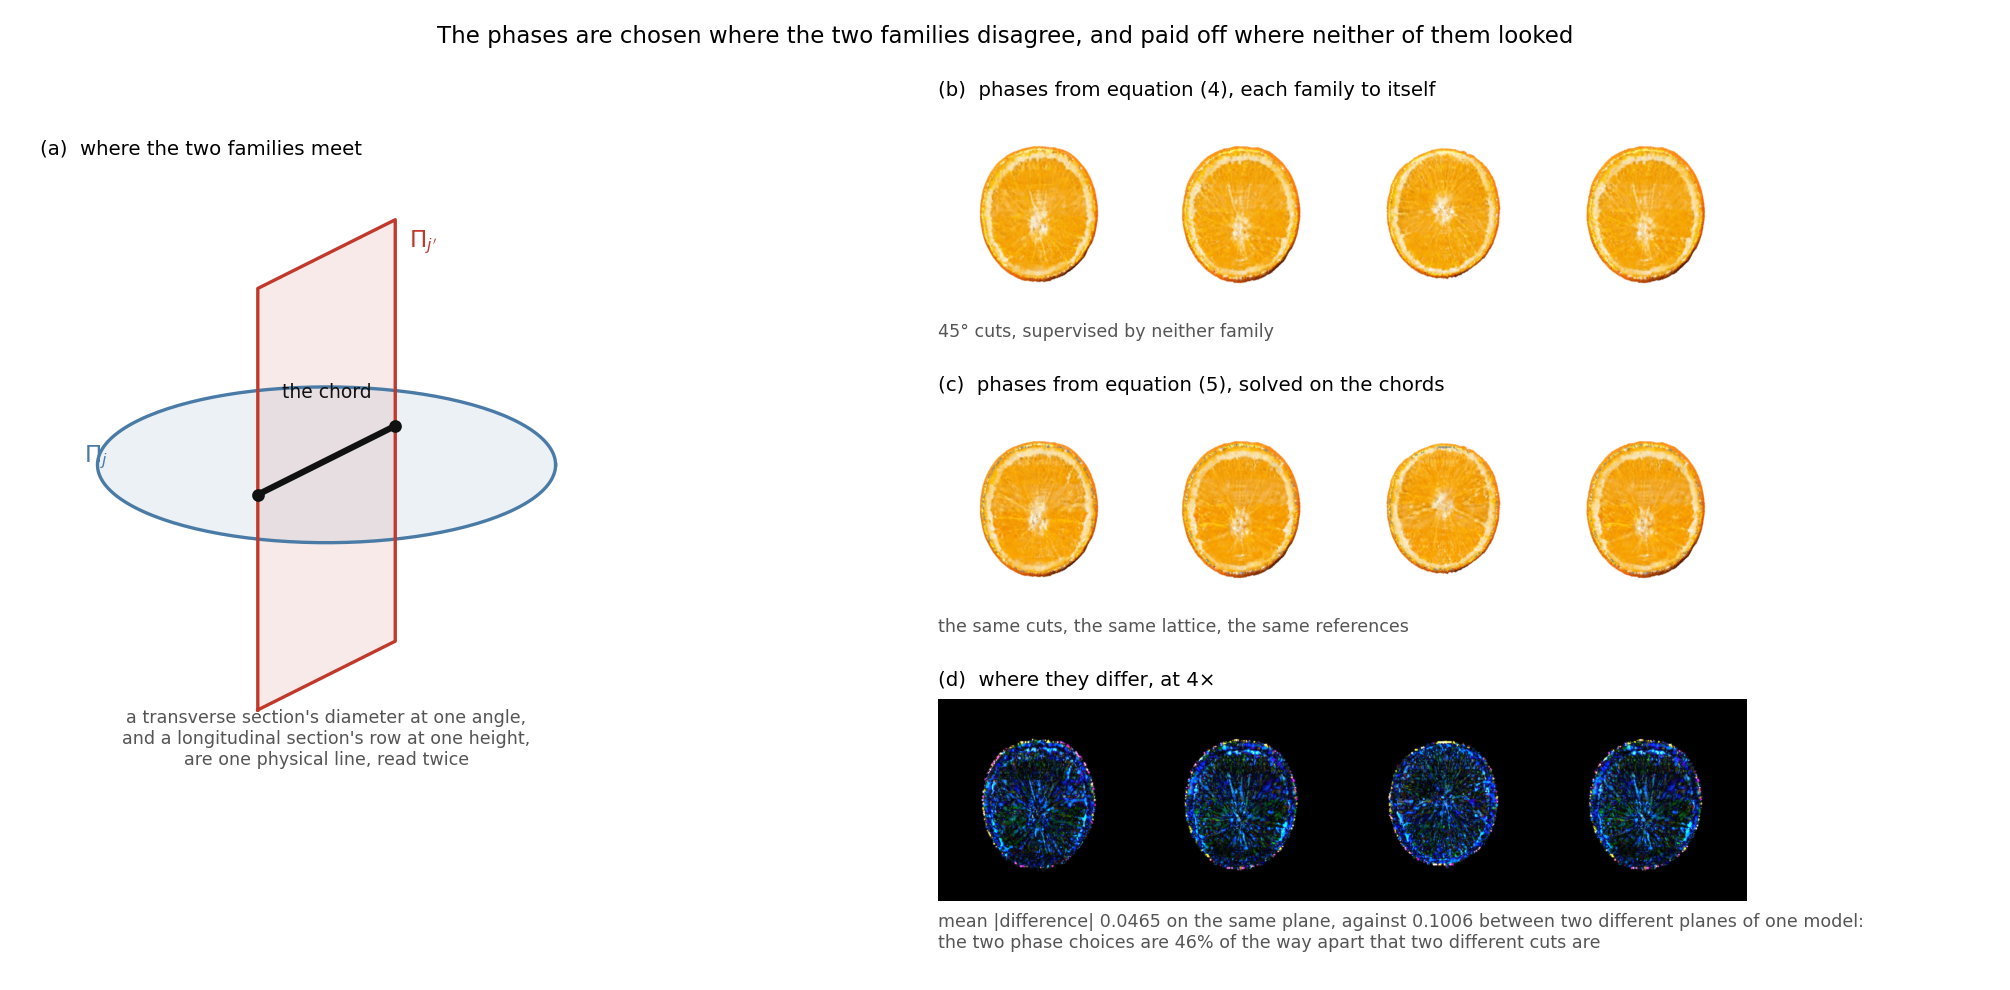
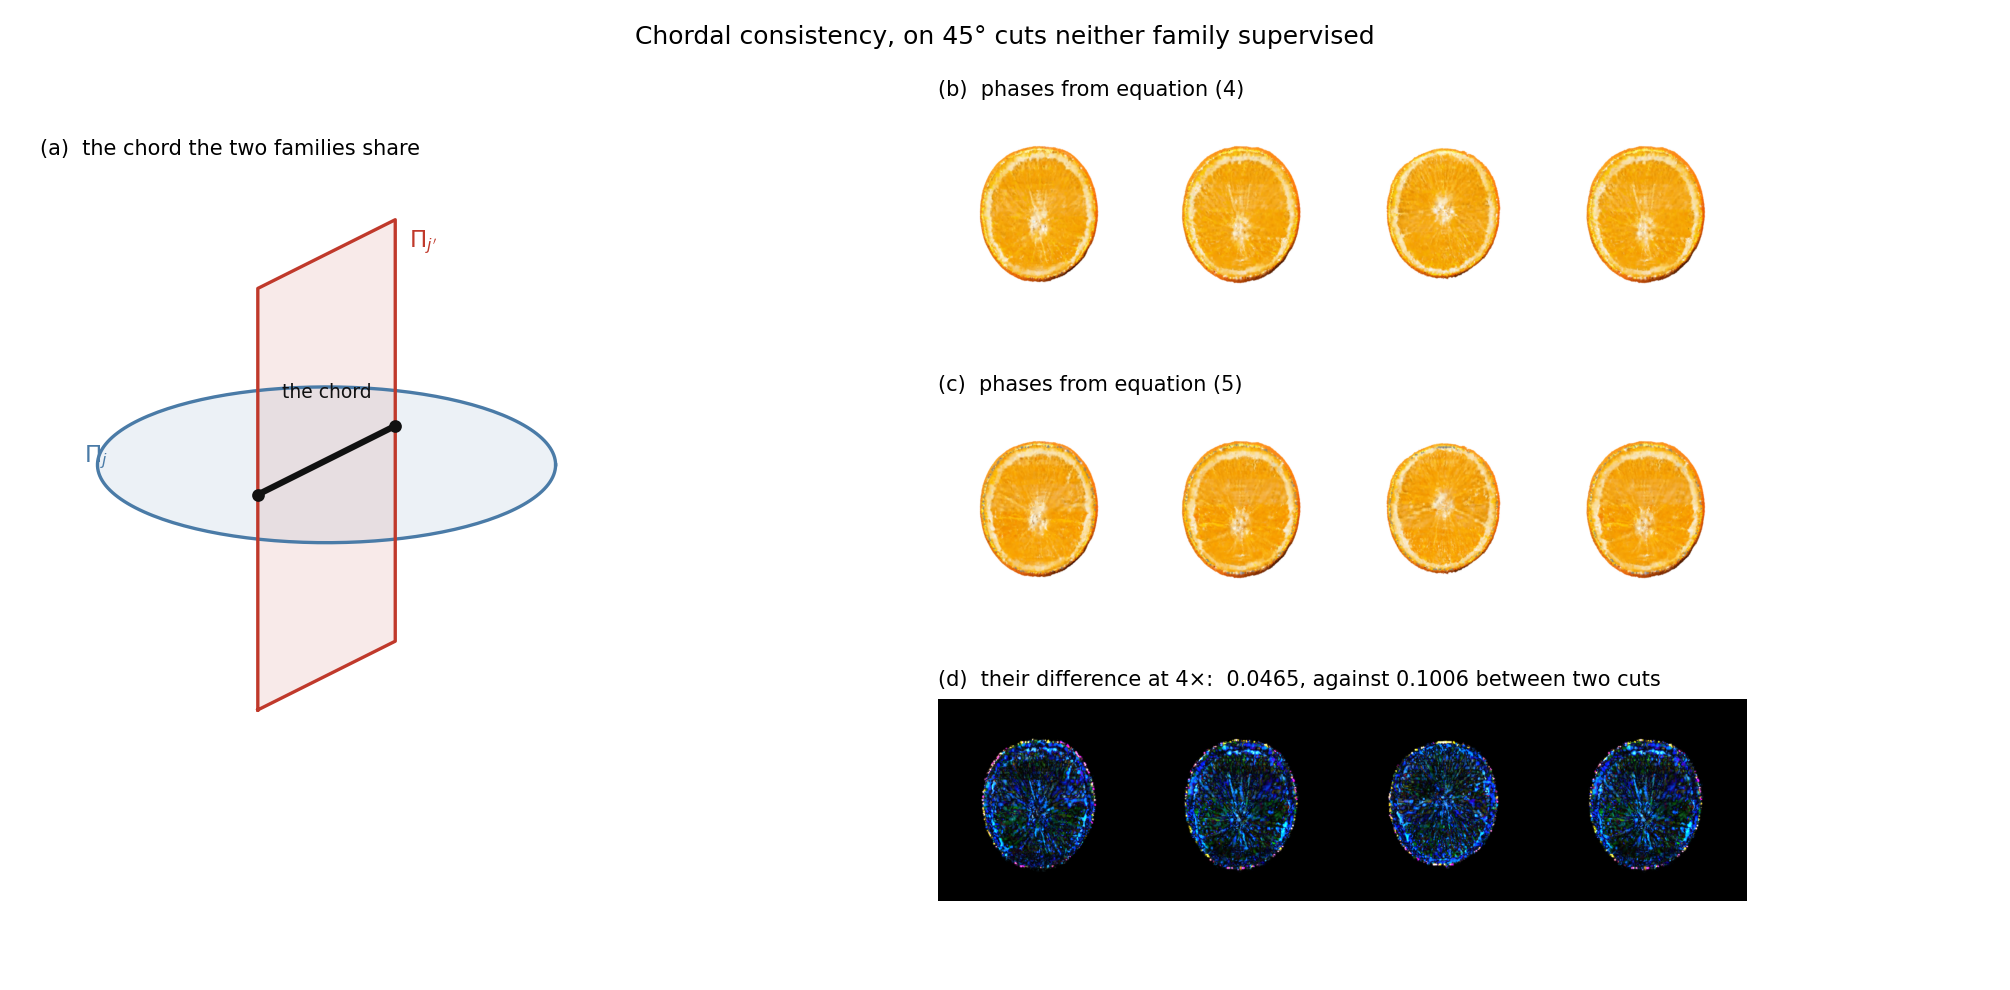
The figures stop explaining themselves inside the frame
Every panel carried a grey sub-line under it and the overview carried a paragraph in its fourth
column. A figure that has to explain itself inside the frame is competing with its own caption,
and the captions were cut to one line each yesterday precisely so the prose could carry the
argument.

Panels are titles now. What survives inside a frame is content rather than commentary: the chord
figure keeps its Pi_j and Pi_j' labels and the word 'chord', because those name the geometry
being drawn, and the difference panel keeps its two numbers, because they are the measurement
that panel exists to report.

diff --git a/code/figures/chordfig.py b/code/figures/chordfig.py
@@ -51,11 +51,6 @@ def chord_panel(ax):
     ax.text(0.0, 0.44, "the chord", fontsize=9, ha="center", color="#111")
     ax.text(-1.06, 0.16, r"$\Pi_j$", fontsize=11, color="#4a7ba7")
     ax.text(0.36, 1.10, r"$\Pi_{j'}$", fontsize=11, color="#c0392b")
-    ax.text(0.0, -1.16,
-            "a transverse section's diameter at one angle,\n"
-            "and a longitudinal section's row at one height,\n"
-            "are one physical line, read twice",
-            fontsize=8.4, ha="center", color="#555")
     ax.set_xlim(-1.25, 1.25); ax.set_ylim(-1.5, 1.45)
     ax.set_aspect("equal"); ax.set_axis_off()
 
@@ -67,8 +62,8 @@ def strip(ax, paths, label, sub):
     h = min(i.shape[0] for i in ims); w = min(i.shape[1] for i in ims)
     ax.imshow(np.hstack([cv2.resize(i, (w, h)) for i in ims]))
     ax.set_axis_off()
-    ax.set_title(label, fontsize=9.5, loc="left")
-    ax.text(0.0, -0.06, sub, transform=ax.transAxes, fontsize=8.4, va="top", color="#555")
+    ax.set_title(label, fontsize=10, loc="left")
+
 
 
 def main(a_run, b_run, out):
@@ -94,23 +89,20 @@ def main(a_run, b_run, out):
     gs = fig.add_gridspec(3, 2, width_ratios=[0.62, 1.38], hspace=0.46, wspace=0.10,
                           left=0.02, right=0.985, top=0.89, bottom=0.09)
     axg = fig.add_subplot(gs[:, 0]); chord_panel(axg)
-    axg.set_title("(a)  where the two families meet", fontsize=9.5, loc="left")
-    strip(fig.add_subplot(gs[0, 1]), pa, "(b)  phases from equation (4), each family to itself",
+    axg.set_title("(a)  the chord the two families share", fontsize=10, loc="left")
+    strip(fig.add_subplot(gs[0, 1]), pa, "(b)  phases from equation (4)",
           "45° cuts, supervised by neither family")
-    strip(fig.add_subplot(gs[1, 1]), pb, "(c)  phases from equation (5), solved on the chords",
+    strip(fig.add_subplot(gs[1, 1]), pb, "(c)  phases from equation (5)",
           "the same cuts, the same lattice, the same references")
     axd = fig.add_subplot(gs[2, 1])
     ims = [np.clip(a * 4.0, 0, 1)[:, :, ::-1] for a, _ in dif]
     h = min(i.shape[0] for i in ims); w = min(i.shape[1] for i in ims)
     axd.imshow(np.hstack([cv2.resize(i, (w, h)) for i in ims]))
     axd.set_axis_off()
-    axd.set_title("(d)  where they differ, at 4×", fontsize=9.5, loc="left")
-    axd.text(0.0, -0.06, f"mean |difference| {md:.4f} on the same plane, against {ms:.4f} "
-             f"between two different planes of one model:\nthe two phase choices are "
-             f"{100*md/ms:.0f}% of the way apart that two different cuts are",
-             transform=axd.transAxes, fontsize=8.4, va="top", color="#555")
-    fig.suptitle("The phases are chosen where the two families disagree, and paid off where "
-                 "neither of them looked", fontsize=11, y=0.975)
+    axd.set_title(f"(d)  their difference at 4×:  {md:.4f}, against {ms:.4f} between two cuts",
+                  fontsize=10, loc="left")
+    fig.suptitle("Chordal consistency, on 45° cuts neither family supervised",
+                 fontsize=12, y=0.975)
     os.makedirs(os.path.dirname(os.path.abspath(out)), exist_ok=True)
     fig.savefig(out, dpi=150, facecolor="white")
     print(f"  -> {out}  ({len(pa)} and {len(pb)} cuts)")

diff --git a/code/figures/cutgeom_fig.py b/code/figures/cutgeom_fig.py
@@ -69,7 +69,7 @@ def main(obj="orange", out="out/cutgeom.png"):
     band = np.abs(S @ n + d) <= 0.5 * hc * np.abs(n).sum()      # equation (10)
 
     fig = plt.figure(figsize=(13.2, 4.5))
-    gs = fig.add_gridspec(1, 3, wspace=0.16, left=0.03, right=0.985, top=0.86, bottom=0.16)
+    gs = fig.add_gridspec(1, 3, wspace=0.16, left=0.03, right=0.985, top=0.86, bottom=0.05)
 
     # --- (a) the slab, the signs, the crossed band --------------------------------------
     ax = fig.add_subplot(gs[0, 0])
@@ -84,10 +84,7 @@ def main(obj="orange", out="out/cutgeom.png"):
     zs = (-d - n[0] * np.array([lo, hi]) - n[1] * ctr[1]) / n[2]
     ax.plot([lo, hi], zs, color="#222", lw=1.3)
     ax.set_aspect("equal"); ax.set_axis_off()
-    ax.set_title("(a)  the crossed band is a test, not a threshold", fontsize=9.5, loc="left")
-    ax.text(0.0, -0.04, f"{int(band.sum()):,} of {len(S):,} cells in this slab cross the plane;\n"
-            r"$|\mathbf{n}\cdot\mathbf{x}+d| \leq \frac{1}{2}h\sum_a |n_a|$",
-            transform=ax.transAxes, fontsize=8.2, va="top", color="#555")
+    ax.set_title("(a)  the cells the plane crosses", fontsize=10, loc="left")
 
     # --- (b) one crossed cell ------------------------------------------------------------
     ax = fig.add_subplot(gs[0, 1])
@@ -133,10 +130,7 @@ def main(obj="orange", out="out/cutgeom.png"):
                             edgecolor="#c0392b", lw=1.8, zorder=2))
     ax.scatter(pp[:, 0], pp[:, 1], s=34, c="#c0392b", zorder=5)
     ax.set_aspect("equal"); ax.set_axis_off()
-    ax.set_title(f"(b)  {len(pts)} edges disagree, one convex polygon", fontsize=9.5, loc="left")
-    ax.text(0.0, -0.04, "corners carry the sign of the plane equation; each contributing\n"
-            r"edge gives one point at $t_e$, ordered by angle about their centroid",
-            transform=ax.transAxes, fontsize=8.2, va="top", color="#555")
+    ax.set_title(f"(b)  one cell: {len(pts)} edges disagree", fontsize=10, loc="left")
 
     # --- (c) the polygons at the skin ----------------------------------------------------
     ax = fig.add_subplot(gs[0, 2])
@@ -166,13 +160,9 @@ def main(obj="orange", out="out/cutgeom.png"):
                                 alpha=0.5, edgecolor="#8e2b1f", lw=0.35, zorder=3))
         npoly += 1
     ax.set_aspect("equal"); ax.set_axis_off()
-    ax.set_title("(c)  the face and the exterior are one surface", fontsize=9.5, loc="left")
-    ax.text(0.0, -0.04, f"{npoly:,} polygons across the whole face, each rim vertex a point on\n"
-            "a cell edge, on cells the exterior is drawn on",
-            transform=ax.transAxes, fontsize=8.2, va="top", color="#555")
+    ax.set_title("(c)  the exposed face", fontsize=10, loc="left")
 
-    fig.suptitle("The exposed face is computed, not approximated: a sign test, twelve edges, "
-                 "and a convex polygon per crossed cell", fontsize=11, y=0.965)
+    fig.suptitle("The closed-form cut", fontsize=12, y=0.965)
     os.makedirs(os.path.dirname(os.path.abspath(out)), exist_ok=True)
     fig.savefig(out, dpi=150, facecolor="white")
     print(f"  -> {out}")

diff --git a/code/figures/pipeline_fig.py b/code/figures/pipeline_fig.py
@@ -77,10 +77,11 @@ def slab(ax, xyz, rgb, axis=2, frac=0.5, half=0.02, s=0.6):
     return int(m.sum())
 
 
-def panel(ax, title, sub):
-    ax.set_title(title, fontsize=9.5, pad=14, weight="bold")
-    ax.text(0.5, -0.055, sub, transform=ax.transAxes, ha="center", va="top",
-            fontsize=7.6, color="#555")
+def panel(ax, title, sub=None):
+    """The title, and nothing under it. A figure that has to explain itself inside the frame
+    is competing with its own caption; the sub-line each panel used to carry is dropped rather
+    than shortened, and what it said belongs to the prose."""
+    ax.set_title(title, fontsize=10, pad=10, weight="bold")
 
 
 def main(obj, out):
@@ -160,16 +161,6 @@ def main(obj, out):
         ax.set_axis_off()
         panel(ax, "the surface, projected", f"{len(six)} views of the outside, onto the same cells")
 
-    ax = fig.add_subplot(gs[1, 3]); ax.set_axis_off()
-    ph = sorted(os.listdir(os.path.join(FN, conf("REF_H", obj))))
-    ph = [f for f in ph if f.endswith((".png", ".jpg")) and "_depth" not in f]
-    if ph:
-        import cv2 as _cv
-        im = _cv.imread(os.path.join(FN, conf("REF_H", obj), ph[0]))[:, :, ::-1]
-        ax.imshow(im)
-    panel(ax, "and then the interior",
-          "photographs of cross-sections are the only thing\nthat ever writes inside; section 3.2")
-
     for y, lab, col in ((0.930, "BUILDING THE REPRESENTATION  \u2014  route 1, a scan", "#c0392b"),
                         (0.722, "\u2014  route 2, a shape from its equation", "#2e7d5b"),
                         (0.500, "SUPERVISING THE INTERIOR  \u2014  the photographs, and nothing "
@@ -180,7 +171,7 @@ def main(obj, out):
     band_supervision(fig, gs, 2, obj, FN, None, conf)
     band_downstream(fig, gs, 3, xyz1, rgb1, lvl1, hc1)
 
-    fig.suptitle("One object through the whole method: a scanned shell, an interior the photographs\nwrite, and a cut that is computed",
+    fig.suptitle("One object through the whole method",
                  fontsize=12.5, y=0.985)
     fig.text(0.5, 0.942, "a shell, filled; either route, never both \u2014 and neither route "
              "ever writes inside the object",
